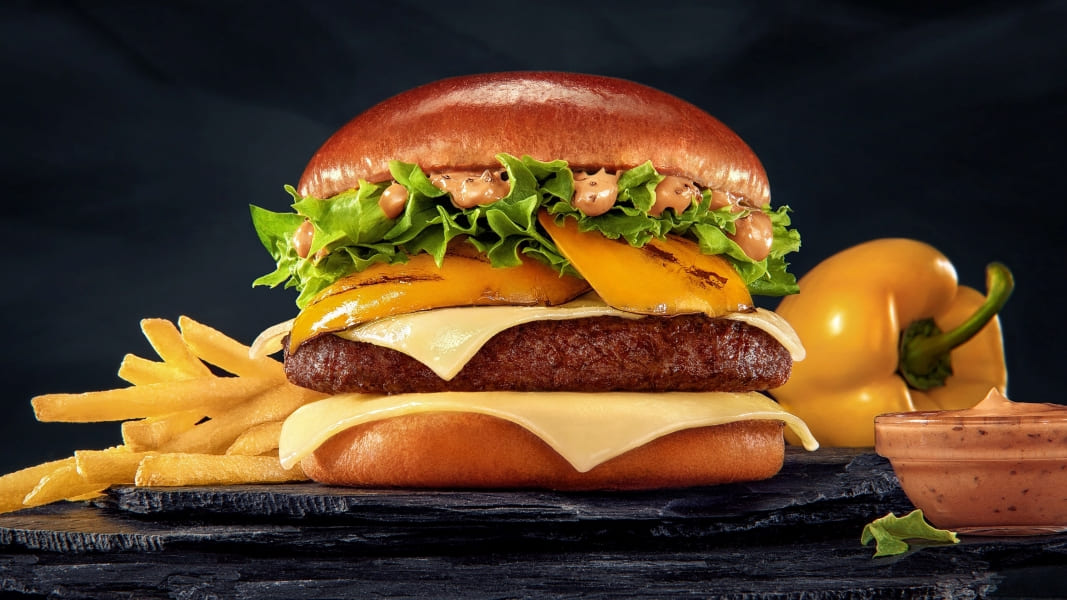
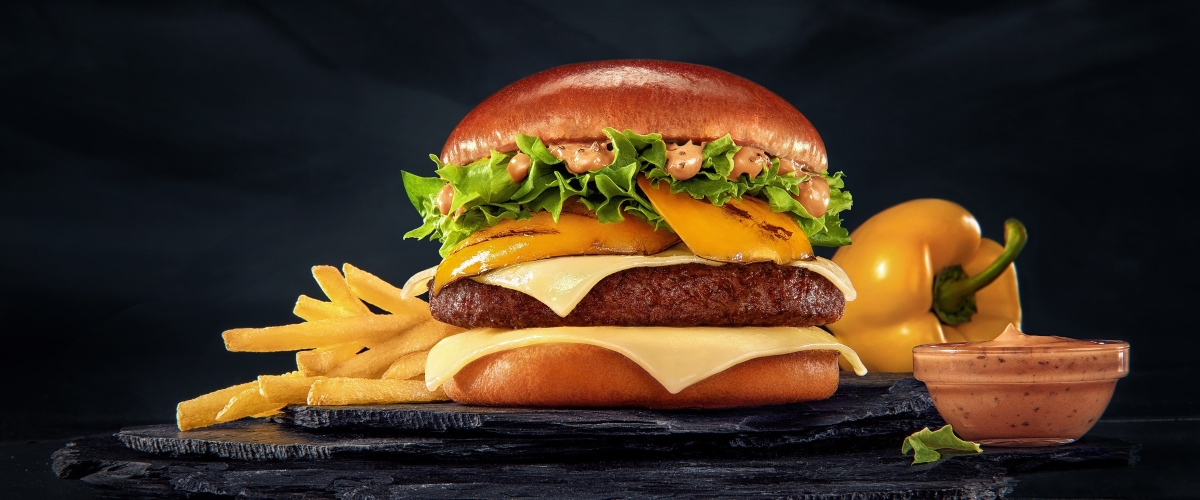
carousel image height reduced for proper view

diff --git a/css/style.css b/css/style.css
@@ -32,7 +32,7 @@
     /* ============= LINEAR GRADIENTS ============= */
     --bg-img-darken : linear-gradient(rgba(0, 0, 0, 0.4),rgba(0, 0, 0, 0.4));
     --scrollbar-anchor-hover: linear-gradient(111.3deg, #9c27b0 9.6%, #00bcd4 93.6%);
-    --menu-sr: linear-gradient(to right, #434343, #000000);
+    --menu-sr : linear-gradient(to right, #434343 0%, black 100%);;
 
     /* ============= BORDER RADIUS ============= */
     --br-20 : 20px ;
@@ -427,7 +427,7 @@ ul {
 
 .menu-card {
     transition: all 0.4s cubic-bezier(0.175, 0.885, 0, 1);
-    background-color: #ffff;
+    background-image: var(--menu-sr);
     width: 350px;
     position: relative;
     border-radius: var(--br-20);
@@ -441,14 +441,15 @@ ul {
 }
 
 .card-info {
-    background: #fffafc;
+    background-image: var(--menu-sr);
     padding: 10px 16px 16px 16px;
-    color: var(--normal-text-clr);
+    color: #fffafc;
     letter-spacing: 2px;
     word-spacing: 3px;
     font-size: var(--h2-font-size);
     font-weight: 600;
     font-family: "Roboto", sans-serif;
+    transition: all 0.5s cubic-bezier(0.175, 0.885, 0, 1);
 }
 
 .menu-card:hover .card-img-hover {
@@ -458,8 +459,8 @@ ul {
 .menu-card:hover .card-info {
     background: transparent;
     position: relative;
-    color: #ffffff;
     text-shadow: 2px 1px 4px rgb(0, 0, 0);
+    border: none;
 }
 
 /* ============= MENU PAGE ============= */
